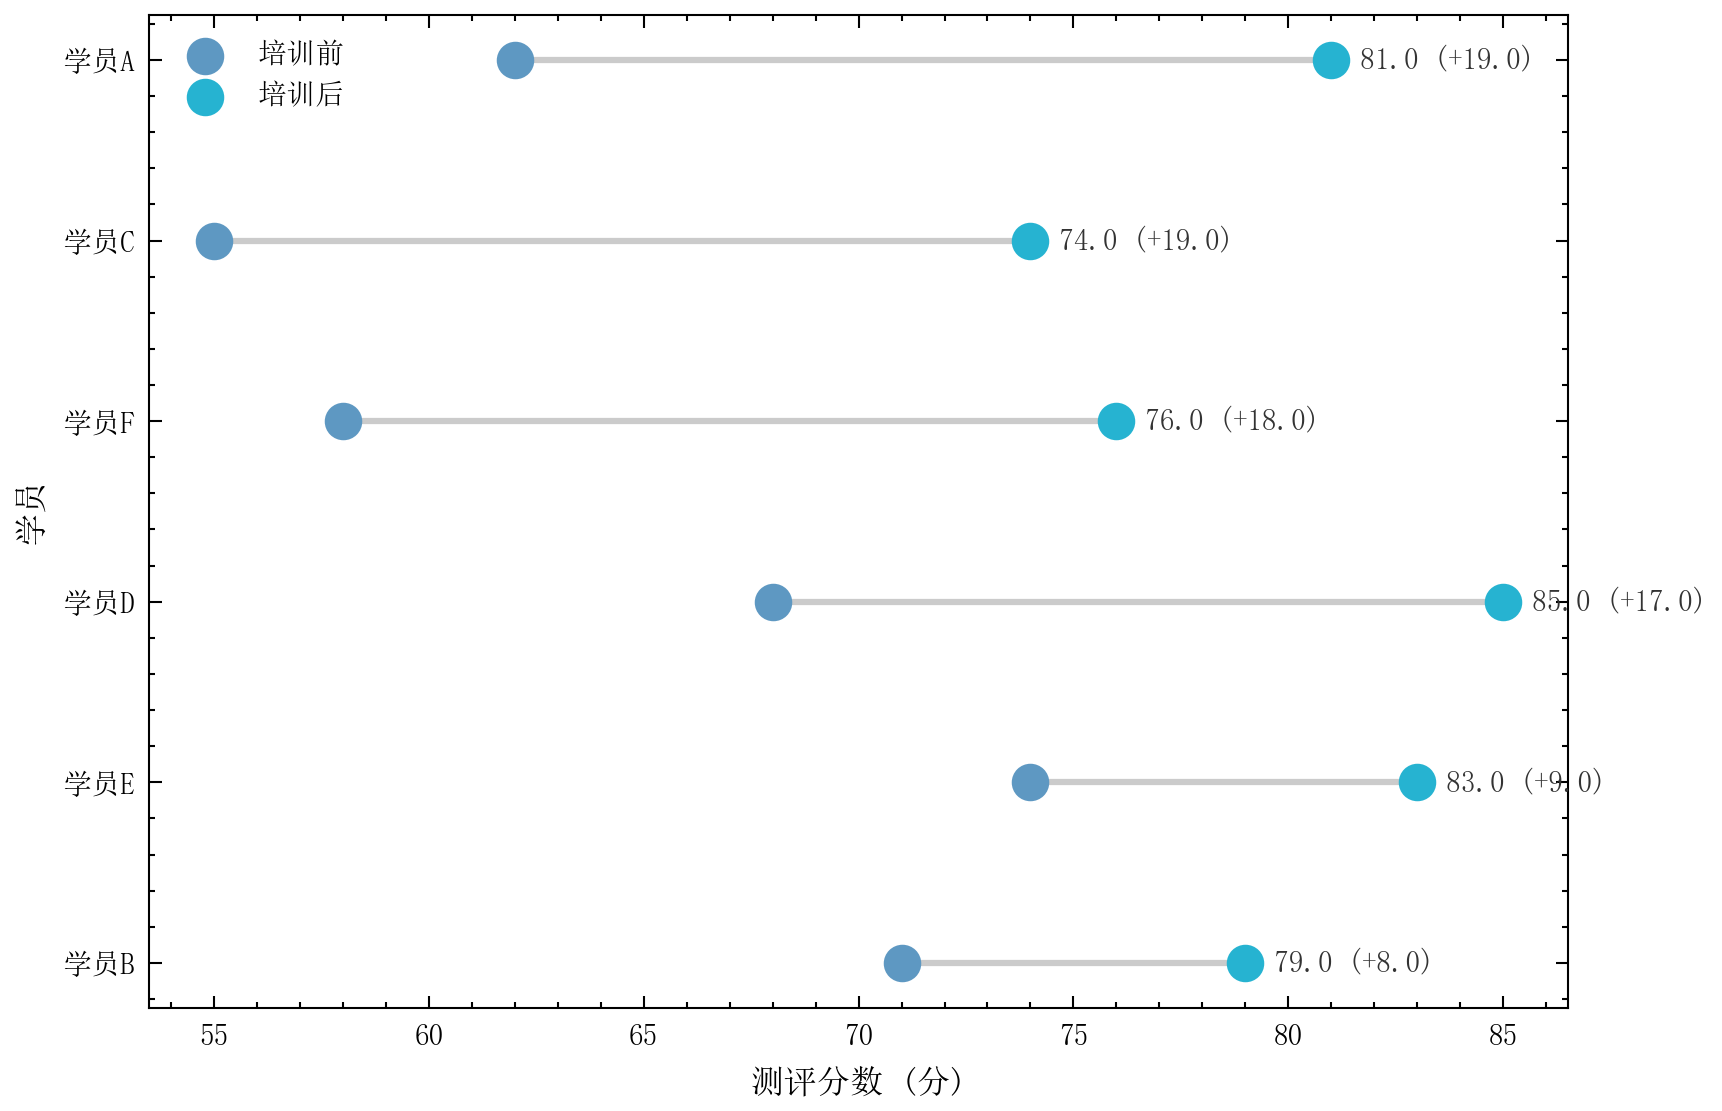
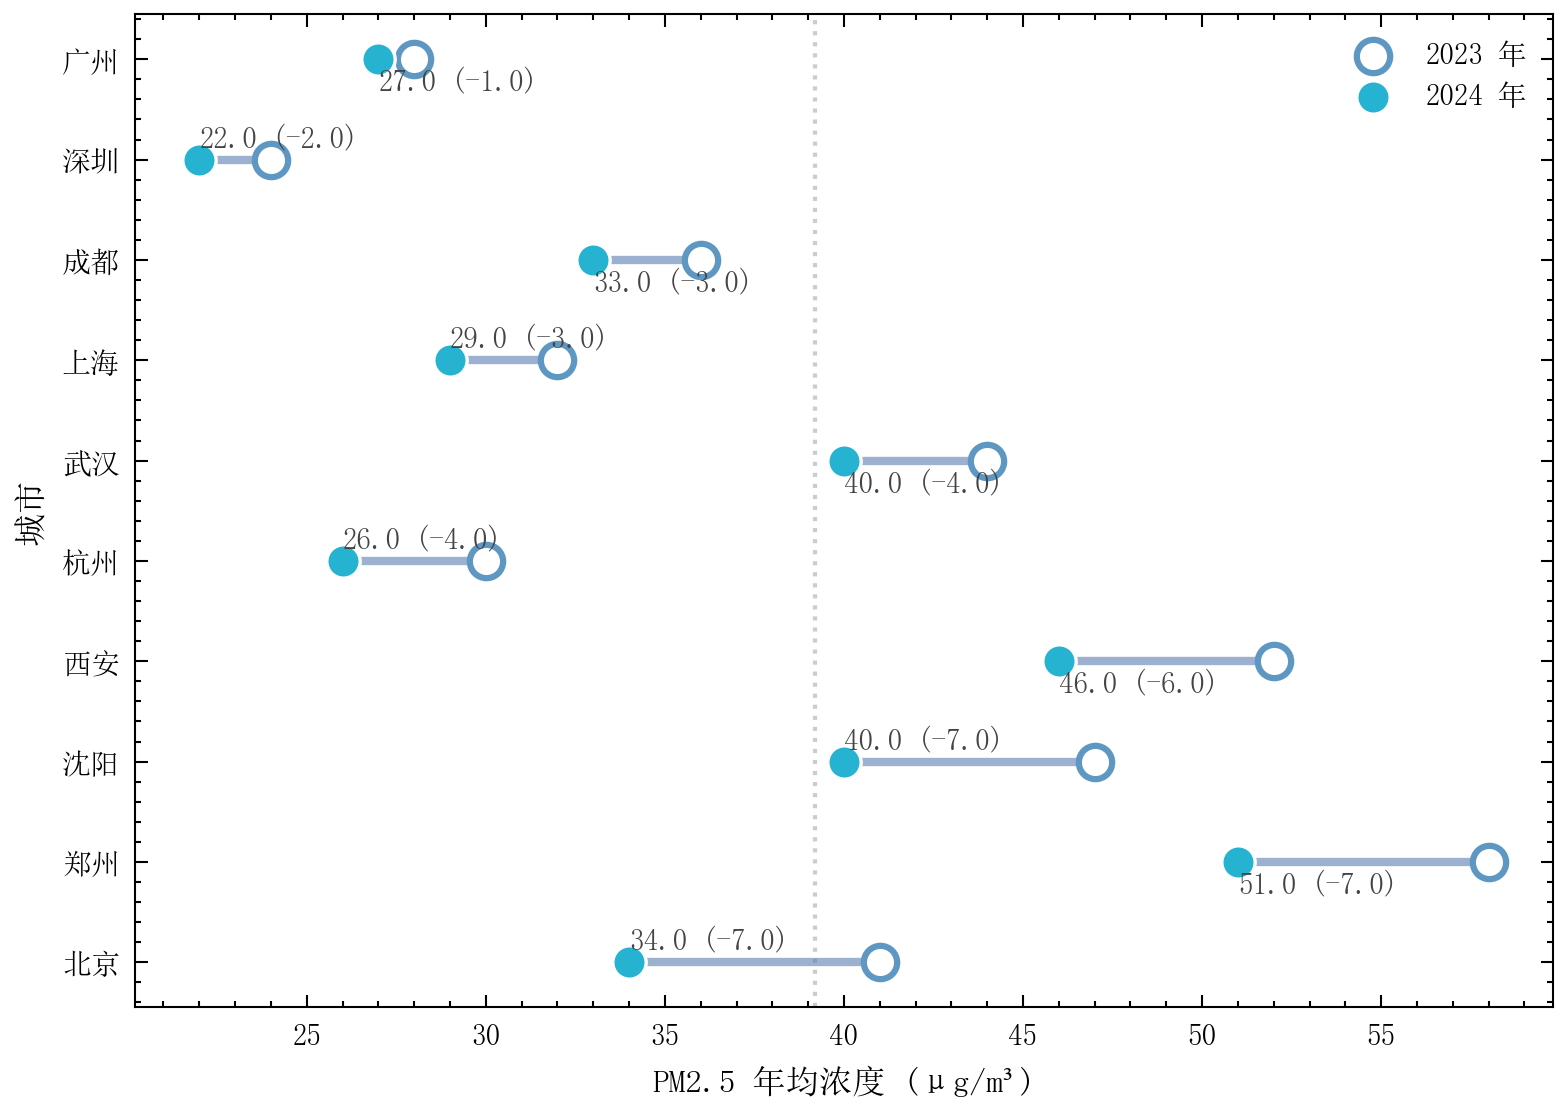
feat(dumbbell): 哑铃图升级 - 改善/恶化分色连线/起点空心+终点实心双编码/均值参考线/标签交替防重叠

diff --git a/sciplot/_plots/distribution.py b/sciplot/_plots/distribution.py
@@ -1029,8 +1029,12 @@ def plot_dumbbell(
     show_values: bool = False,
     fmt: str = ".1f",
     sort_by: Optional[str] = "delta",
-    line_alpha: float = 0.5,
+    line_alpha: float = 0.6,
     marker_size: float = 8.0,
+    improve_color: str = "#E07B54",
+    worsen_color: str = "#5B7DB1",
+    neutral_color: str = "#999999",
+    show_baseline: bool = True,
     venue: Optional[str] = None,
     palette: Optional[str] = None,
     lang: Optional[str] = None,
@@ -1039,8 +1043,9 @@ def plot_dumbbell(
     """
     绘制哑铃图（Dumbbell，两时点/两条件前后对比）
 
-    每个类别一行，起点与终点以圆点标记、中间连线，直观展示
-    变化幅度与方向，适合前后测对比、干预效果等场景。
+    每个类别一行：起点空心圆 + 终点实心圆 + 中间连线。
+    连线按变化方向着色（改善暖色/恶化冷色），数值标签上下交替
+    错位避免重叠，可叠加起点均值参考线。
 
     参数:
         categories : 类别标签列表
@@ -1053,6 +1058,10 @@ def plot_dumbbell(
         sort_by    : 排序方式："delta" 按变化量 | "start" | "end" | None 保持原序
         line_alpha : 连线透明度
         marker_size: 圆点大小
+        improve_color: 改善（end > start）连线颜色，默认暖色
+        worsen_color : 恶化（end < start）连线颜色，默认冷色
+        neutral_color: 持平连线颜色
+        show_baseline: 是否绘制起点均值参考虚线
 
     示例:
         >>> fig, ax = sp.plot_dumbbell(
@@ -1098,22 +1107,38 @@ def plot_dumbbell(
     colors = _get_cycle_colors()
 
     y = np.arange(len(cats))
-    for yi, (s_val, e_val) in zip(y, zip(starts, ends)):
-        ax.plot([s_val, e_val], [yi, yi], color="#999999",
-                linewidth=1.5, alpha=line_alpha, zorder=1)
+    # 连线：按变化方向着色
+    deltas = ends - starts
+    line_colors = np.where(
+        deltas > 1e-9, improve_color,
+        np.where(deltas < -1e-9, worsen_color, neutral_color),
+    )
+    for yi, (s_val, e_val) in enumerate(zip(starts, ends)):
+        ax.plot([s_val, e_val], [yi, yi], color=line_colors[yi],
+                linewidth=2.0, alpha=line_alpha, zorder=1)
 
-    ax.scatter(starts, y, s=marker_size**2, color=colors[0],
-               label=start_label, zorder=2)
+    # 起点均值参考线
+    if show_baseline:
+        baseline = float(np.mean(starts))
+        ax.axvline(x=baseline, color="#CCCCCC", linestyle=":", linewidth=1.0, zorder=0)
+
+    # 起点空心圆 + 终点实心圆（双编码）
+    ax.scatter(starts, y, s=marker_size**2, facecolors="white",
+               edgecolors=colors[0], linewidths=1.5,
+               label=start_label, zorder=3)
     ax.scatter(ends, y, s=marker_size**2, color=colors[1 % len(colors)],
-               label=end_label, zorder=2)
+               edgecolors="white", linewidths=0.8,
+               label=end_label, zorder=3)
 
     if show_values:
         fontsize = max(6, plt.rcParams.get("font.size", 9) - 1)
-        for yi, (s_val, e_val) in enumerate(zip(starts, ends)):
+        for idx, (yi, (s_val, e_val)) in enumerate(zip(y, zip(starts, ends))):
             delta = e_val - s_val
+            # 上下交替偏移避免相邻标签重叠
+            dy = 0.22 if idx % 2 == 0 else -0.22
             ax.text(
-                e_val, yi, f"  {e_val:{fmt}} ({delta:+.1f})",
-                ha="left", va="center", fontsize=fontsize, color="#333333",
+                e_val, yi + dy, f"{e_val:{fmt}} ({delta:+.1f})",
+                ha="left", va="center", fontsize=fontsize, color="#444444",
             )
 
     ax.set_yticks(y)

diff --git a/showcase/21_dumbbell.py b/showcase/21_dumbbell.py
@@ -1,31 +1,32 @@
 """
 21_dumbbell.py — 哑铃图
 
-展示 plot_dumbbell()：训练前后成绩对比。
-场景：六个学员的培训前后测评分数变化。
+展示 plot_dumbbell()：2023 vs 2024 十大城市空气质量改善对比。
+连线按改善/恶化着色，起点均值参考线，标签上下交替错位。
 """
 
 import numpy as np
 import sciplot as sp
 
-np.random.seed(42)
-
 # ── 数据生成 ──────────────────────────────────────────────────
-students = ["学员A", "学员B", "学员C", "学员D", "学员E", "学员F"]
-before = np.array([62, 71, 55, 68, 74, 58])
-after = np.array([81, 79, 74, 85, 83, 76])
+cities = [
+    "北京", "上海", "广州", "深圳", "成都", "杭州",
+    "武汉", "西安", "郑州", "沈阳",
+]
+pm25_2023 = np.array([41, 32, 28, 24, 36, 30, 44, 52, 58, 47])
+pm25_2024 = np.array([34, 29, 27, 22, 33, 26, 40, 46, 51, 40])
 
 # ── 绘图 ──────────────────────────────────────────────────────
 sp.setup_style("thesis", "ocean", lang="zh")
 
 fig, ax = sp.plot_dumbbell(
-    students,
-    before,
-    after,
-    xlabel="测评分数 (分)",
-    ylabel="学员",
-    start_label="培训前",
-    end_label="培训后",
+    cities,
+    pm25_2023,
+    pm25_2024,
+    xlabel="PM2.5 年均浓度 (μg/m³)",
+    ylabel="城市",
+    start_label="2023 年",
+    end_label="2024 年",
     show_values=True,
     sort_by="delta",
 )
